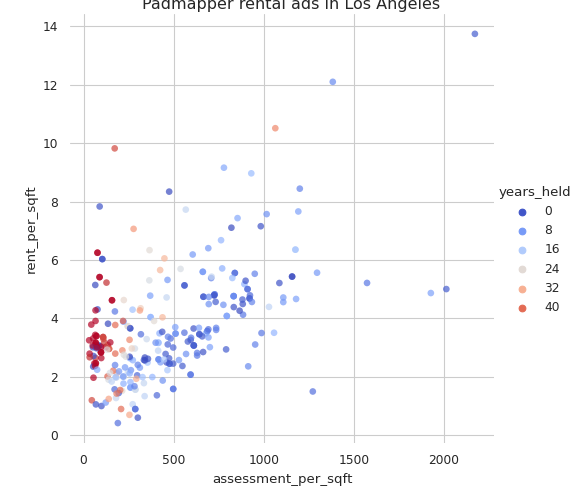
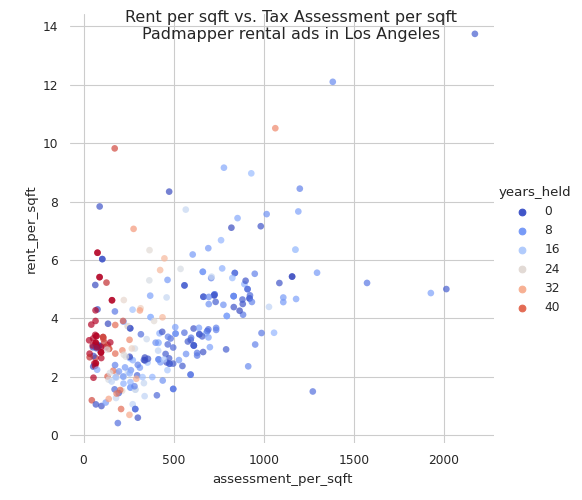
rewording

Changed region(s): [[0.2165, 0.0, 0.7732, 0.09]]

diff --git a/assets/padmapper/padmapper_charts.py b/assets/padmapper/padmapper_charts.py
@@ -74,7 +74,7 @@ def plot_scatter(df):
     )
     g.despine(left=True, bottom=True)
     plt.suptitle(
-        "Tax Assessment per sqft vs. Rent per sqft\nPadmapper rental ads in Los Angeles"
+        "Rent per sqft vs. Tax Assessment per sqft\nPadmapper rental ads in Los Angeles"
     )
     output = os.path.join(
         os.environ["HOME"], "ryancompton.net/assets/pix/tax_vs_rent_padmapper.png"

diff --git a/_posts/2023-03-25-taxrent.md b/_posts/2023-03-25-taxrent.md
@@ -23,7 +23,7 @@ Padmapper rental ads contain exact addressed which, with some help from a [geoco
 
 Joining all this together gets a dataset that has the advertised rent, square footage, and property tax assessment for each address. The LA County Assessor Portal also provides the ["base year"](https://assessor.lacounty.gov/homeowners/realproperty) which is the year the property last changed ownership.
 
-In the below plot we chart rent per sqft against tax assessment per sqft:
+Below we plot rent per sqft against tax assessment per sqft:
 
 ![tvsrp]({{ site.url}}/assets/pix/tax_vs_rent_padmapper.png)
 
